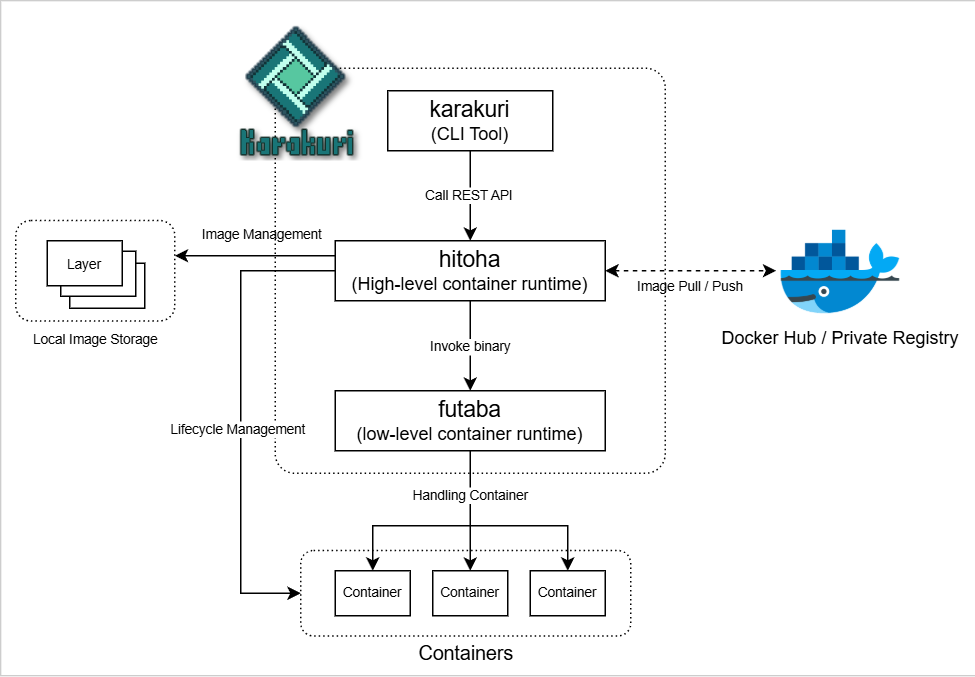
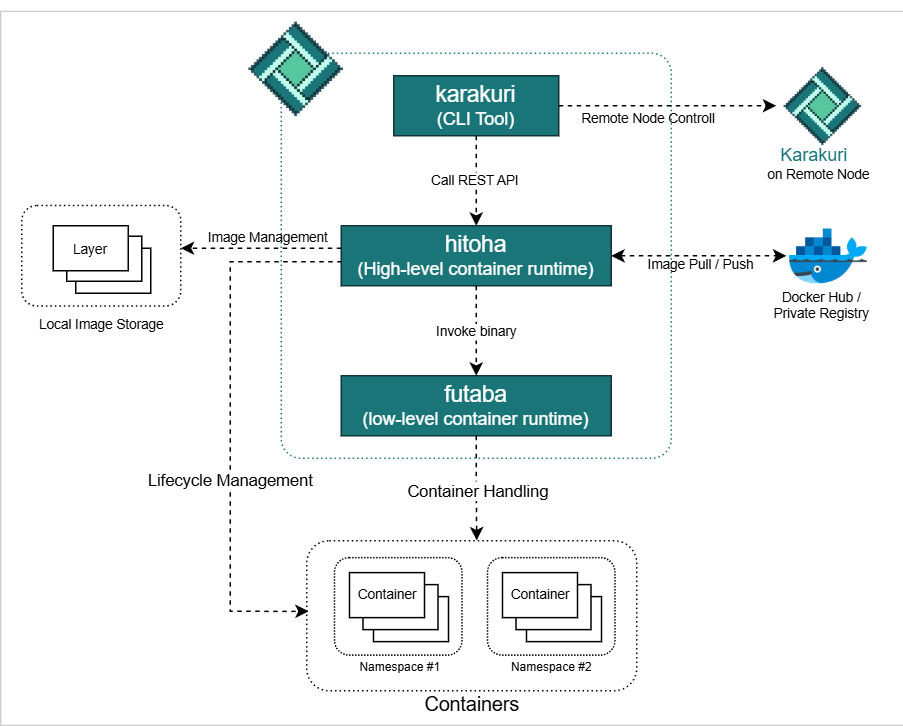
update documents

diff --git a/pkgs/version.go b/pkgs/version.go
@@ -1,5 +1,5 @@
 package karakuripkgs
 
 const (
-	KARAKURI_VERSION = "0.1.6"
+	KARAKURI_VERSION = "0.2.0"
 )

diff --git a/README.md b/README.md
@@ -1,6 +1,6 @@
 # <img src="./docs/images/karakuri_icon.png">
 ![License](https://img.shields.io/badge/License-MIT-blue.svg)
-![Version](https://img.shields.io/badge/release-v0.1.6-blue.svg)
+![Version](https://img.shields.io/badge/release-v0.2.0-blue.svg)
 
 ## Introduction
 `karakuri` is a container runtime for small-scale development environments.  
@@ -118,6 +118,72 @@ alpine        | latest    | b0c9d60fc5e3
 $ sudo karakuri rmi --id [IMAGE_ID]
 ```
 
+## Node Controller
+`karakuri` implements Node Controller for remote management.  
+It is possible to connect to `karakuri` running on other node and manage containers remotely.  
+By using Node Controller, you can operated separately as a node for controllers and a node for workers.
+
+### Change mode
+The system operates in stand-alone mode by default.  
+This is the mode in which the system is not managed remotely, only locally.  
+
+You can check which mode you are currently running in with the following command.
+```
+$ sudo karakuri nodectl info
+
+Mode : stand-alone
+```
+
+On the node that you want to manage remotely, execute the following command to change remote-control mode.
+```
+$ sudo karakuri nodectl mode remote-controll
+```
+If the remote-control mode is successfully activated, the following message is displayed.
+```
+currently running in remote-controll mode
+now you can connect from remote to this node. please execute the following command on controller node:
+  karakuri nodectl connect --node [NODE_ADDRESS] --auth [AUTHCODE]
+```
+An authorization code is required to connect to a system operating in remote control mode.
+Copy the displayed command and proceed next step.
+
+(Note) To switch to stand-alone mode, execute the following command:
+```
+$ sudo karakuri nodectl mode stand-alone
+```
+
+### Connect to Remote node
+By default, it is connected to karakuri running locally.  
+To switch the node to be connected, first disconnect the current connection.
+```
+$ sudo karakuri nodectl disconnect
+```
+Then connect to remote node using the command (authentication code) obtained in the previous step.
+```
+$ sudo karakuri nodectl connect --node [NODE_ADDRESS] --auth [AUTHCODE]
+
+node: [NODE_ADDRESS] connection success
+```
+You can check which node you are currently connected to with the following command.
+```
+$ sudo karakuri nodectl info
+
+Mode : stand-alone
+
+Target Node : 172.17.20.150:9816
+Status      : connected
+```
+
+(Note) The authorization code is only required for the first connection or if the authorization code is changed.  
+The `--auth` option is not required when alternating between local and local, which is explained in the next step.
+
+
+### Connect to Local
+To switch from a remote node to a local `karakuri`, execute the following command:
+```
+$ sudo karakuri nodectl disconnect
+$ sudo karakuri nodectl connect --default
+```
 
 ## Registry Controller
 If you have enabled `registry` module or have your own private registry, you can connect to it.  
